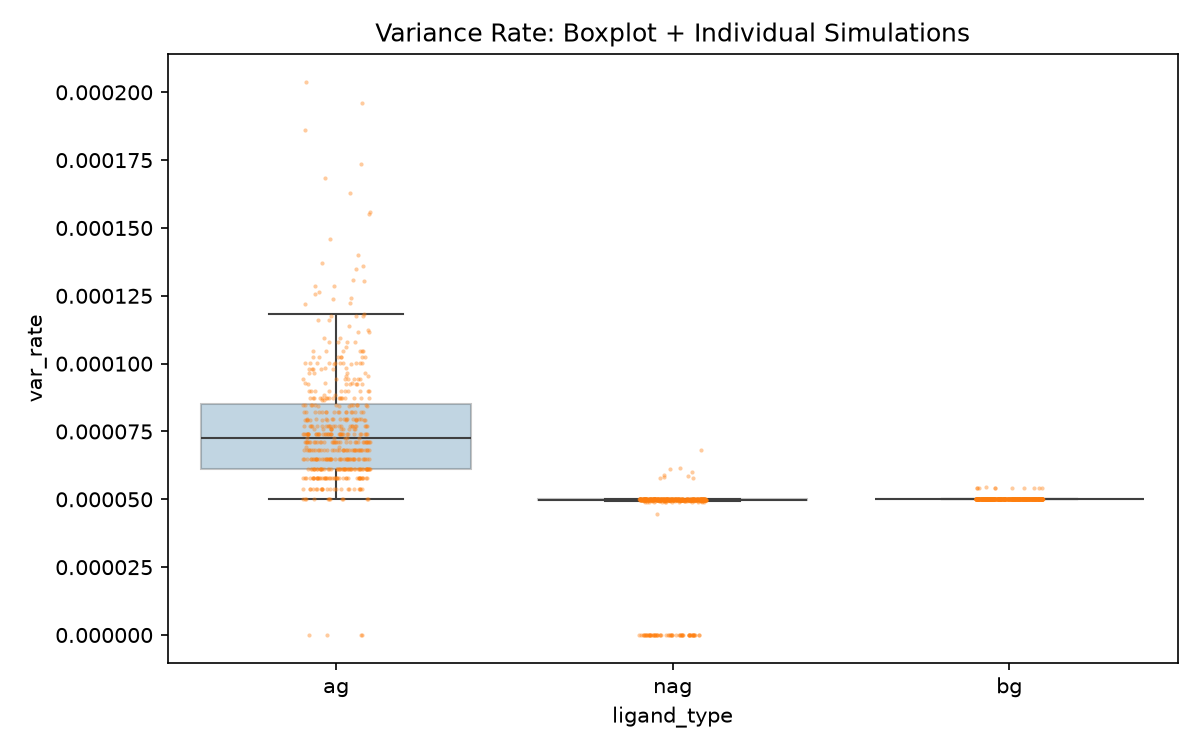
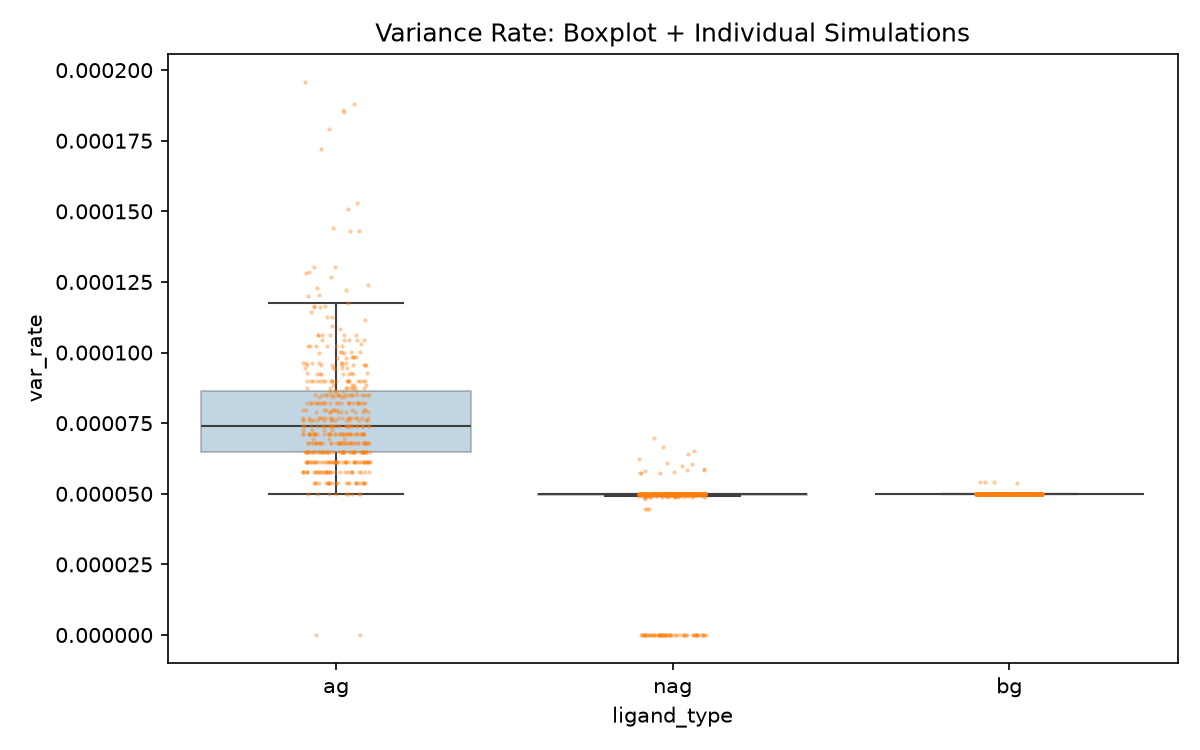
likelihood-v-3: T_contact=1000 LOCKED

diff --git a/src/contact_simulation.py b/src/contact_simulation.py
@@ -8,7 +8,7 @@ from scipy import stats as scipy_stats
 
 
 CLASS = ['ag', 'nag', 'bg']
-T = 5000
+T = 1000
 
 # From Huang et al. 2010, Table 1, 37°C (2D kinetics)
 k_off = {'ag': 10.8, 'nag': 1.3, 'bg': 50.0}  # s^(-1)
@@ -56,7 +56,7 @@ ax_stats.set_title('Variance Rate: Boxplot + Individual Simulations')
 
 plt.tight_layout()
 
-data_path_stats = os.path.join(os.path.dirname(__file__), '../data/runs/likelihood_v_2/var_rate_boxplot.png')
+data_path_stats = os.path.join(os.path.dirname(__file__), '../data/runs/likelihood_v_3/var_rate_boxplot.png')
 plt.savefig(data_path_stats, dpi=150)
 
 plt.show()
@@ -72,7 +72,7 @@ for ax, t_type in zip(axes, CLASS):
 
 plt.tight_layout()
 
-data_path1 = os.path.join(os.path.dirname(__file__), '../data/runs/likelihood_v_2/var_rate_distributions.png')
+data_path1 = os.path.join(os.path.dirname(__file__), '../data/runs/likelihood_v_3/var_rate_distributions.png')
 plt.savefig(data_path1, dpi=150)
 plt.show()
 
@@ -87,7 +87,7 @@ ax2.legend()
 
 plt.tight_layout()
 
-data_path2 = os.path.join(os.path.dirname(__file__), '../data/runs/likelihood_v_2/var_rate_histogram.png')
+data_path2 = os.path.join(os.path.dirname(__file__), '../data/runs/likelihood_v_3/var_rate_histogram.png')
 plt.savefig(data_path2, dpi=150)
 plt.show()
 
@@ -102,7 +102,7 @@ ax3.set_xlabel('Variance Rate')
 ax3.legend()
 
 plt.tight_layout()
-data_path3 = os.path.join(os.path.dirname(__file__), '../data/runs/likelihood_v_2/var_rate_ag_nag_overlap.png')
+data_path3 = os.path.join(os.path.dirname(__file__), '../data/runs/likelihood_v_3/var_rate_ag_nag_overlap.png')
 plt.savefig(data_path3, dpi=150)
 plt.show()
 
